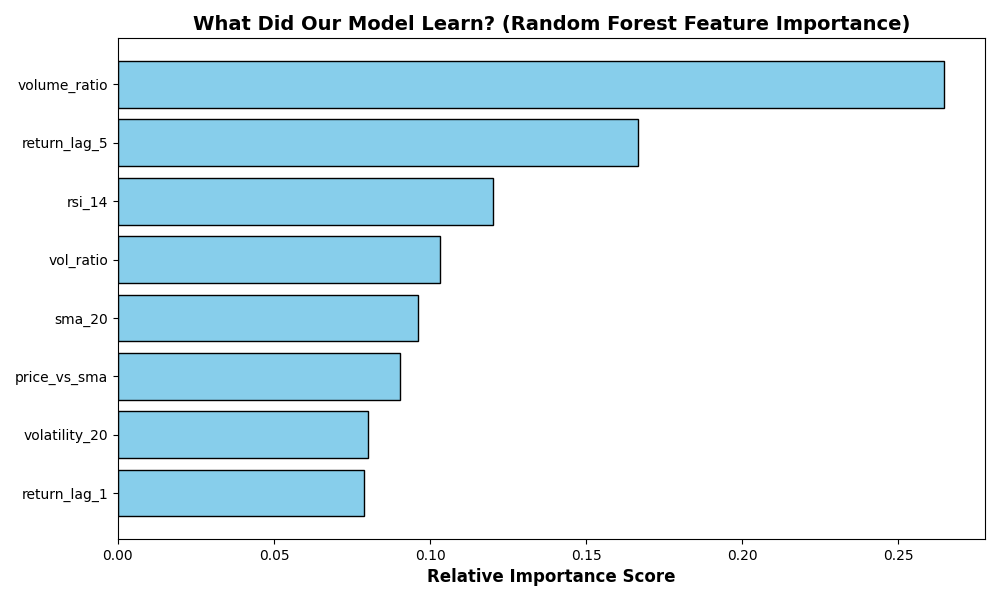
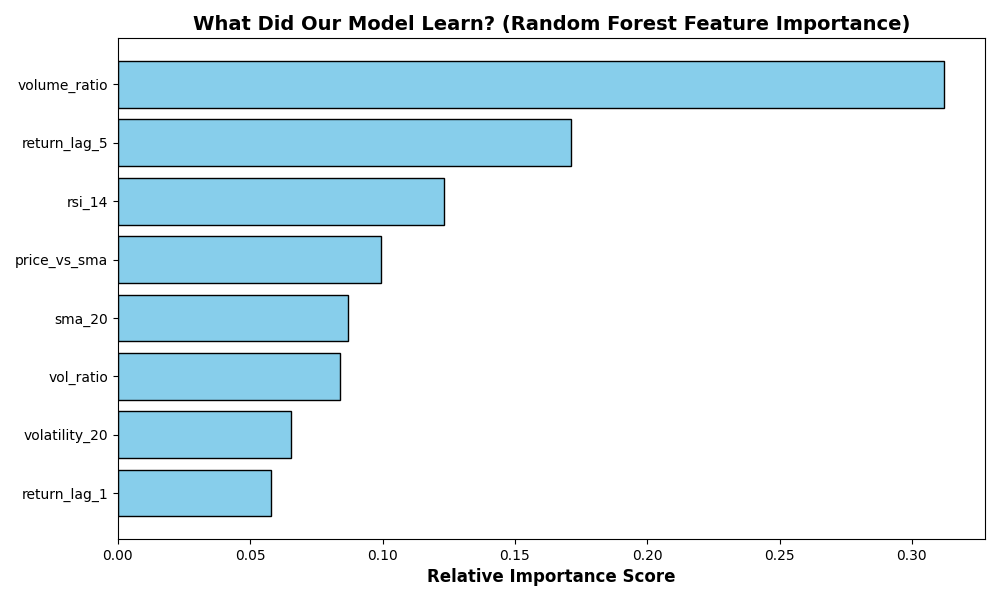
finally xboster ran
few problems were faced in running few codes

diff --git a/ml_features.py b/ml_features.py
@@ -140,28 +140,34 @@ dt_preds = dt_model.predict(X_test)
 dt_r2 = r2_score(y_test, dt_preds)
 
 print(f"\nDecision Tree Test R² Score: {dt_r2:.6f}")
+
 # ==============================================================================
-# BLOCK 3: RANDOM FOREST WORKHORSE (XGBoost bypassed)
+# BLOCK 3: THE ENSEMBLE WORKHORSES
 # ==============================================================================
 from sklearn.ensemble import RandomForestRegressor
+from sklearn.ensemble import HistGradientBoostingRegressor
 
 print("\n--- Block 3: Training Ensemble Workhorses ---")
 
-# 6. Model 3: Random Forest (Averaging trees to squash variance noise)
-rf_model = RandomForestRegressor(n_estimators=100, max_depth=5, random_state=42)
+# 6. Random Forest
+rf_model = RandomForestRegressor(n_estimators=100, max_depth=3, random_state=42)
 rf_model.fit(X_train, y_train)
 rf_preds = rf_model.predict(X_test)
 rf_r2 = r2_score(y_test, rf_preds)
-
 print(f"Random Forest Test R² Score: {rf_r2:.6f}")
 
-# (XGBoost is commented out for now to bypass the Anaconda installation block)
-# from xgboost import XGBRegressor
-# xgb_model = XGBRegressor(n_estimators=100, max_depth=3, learning_rate=0.05, random_state=42)
-# xgb_model.fit(X_train, y_train)
-# xgb_preds = xgb_model.predict(X_test)
-# xgb_r2 = r2_score(y_test, xgb_preds)
-# print(f"XGBoost Test R² Score: {xgb_r2:.6f}")
+# 7. Native Gradient Boosting (Scikit-Learn's built-in version of XGBoost/LightGBM)
+# This requires ZERO C++ compilers and runs perfectly on Mac M-Series chips!
+hgb_model = HistGradientBoostingRegressor(
+    max_iter=50,          # Equivalent to n_estimators
+    max_depth=3,
+    learning_rate=0.03,
+    random_state=42
+)
+hgb_model.fit(X_train, y_train)
+hgb_preds = hgb_model.predict(X_test)
+hgb_r2 = r2_score(y_test, hgb_preds)
+print(f"Gradient Boosting Test R² Score: {hgb_r2:.6f}")
 
 
 # ==============================================================================
